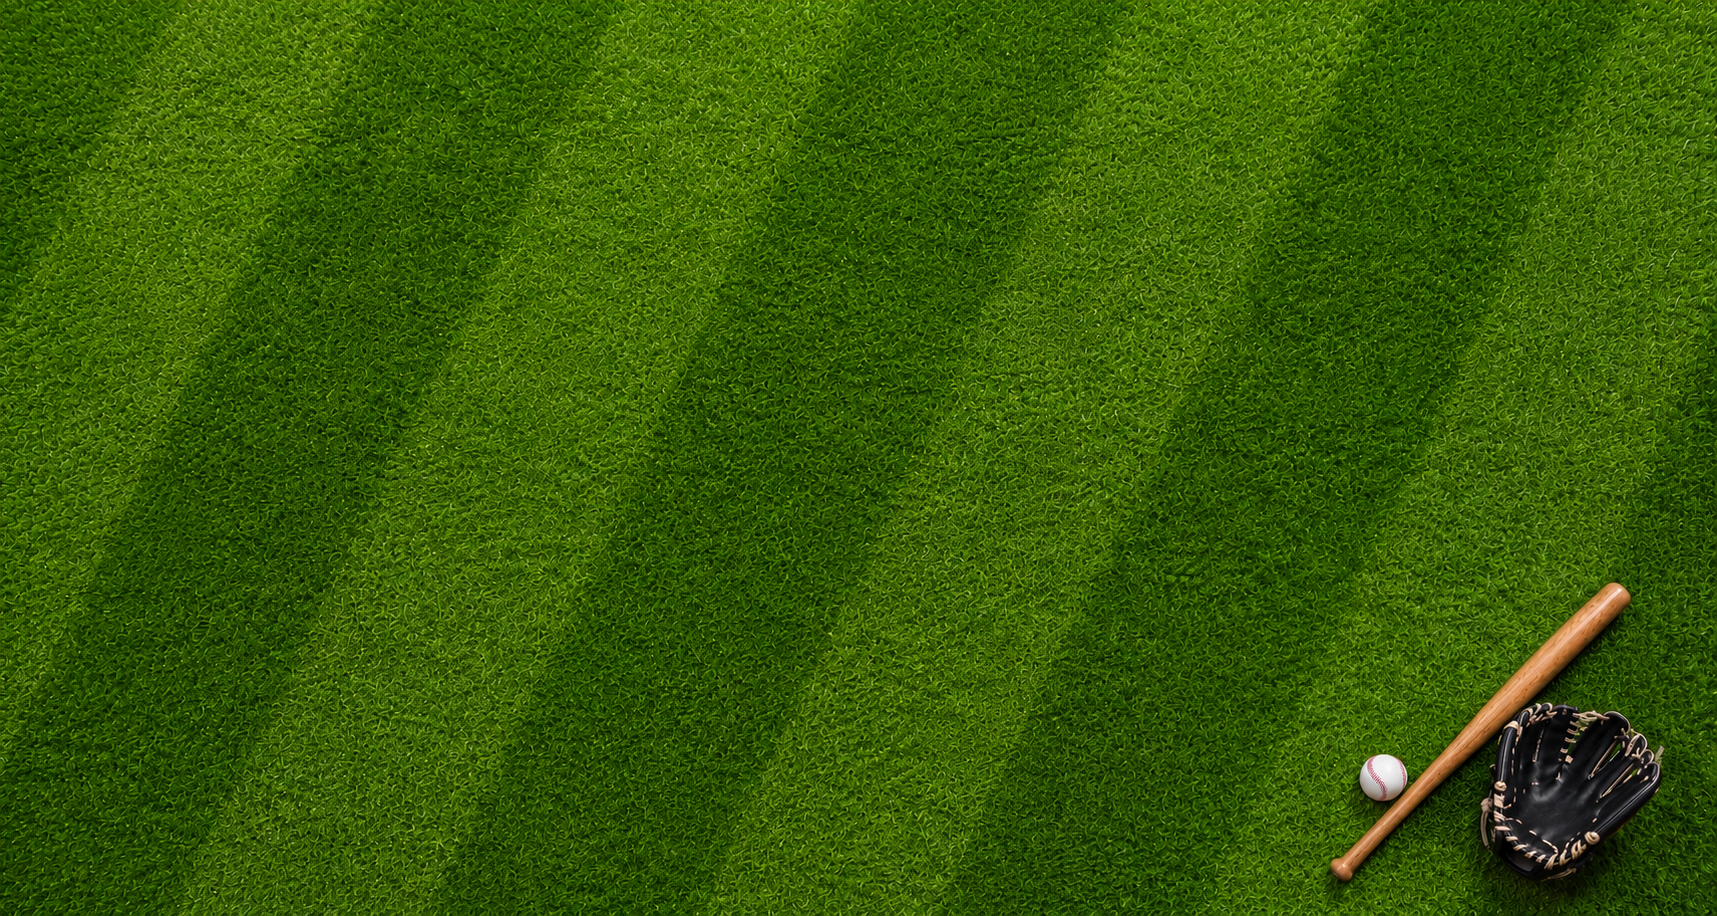
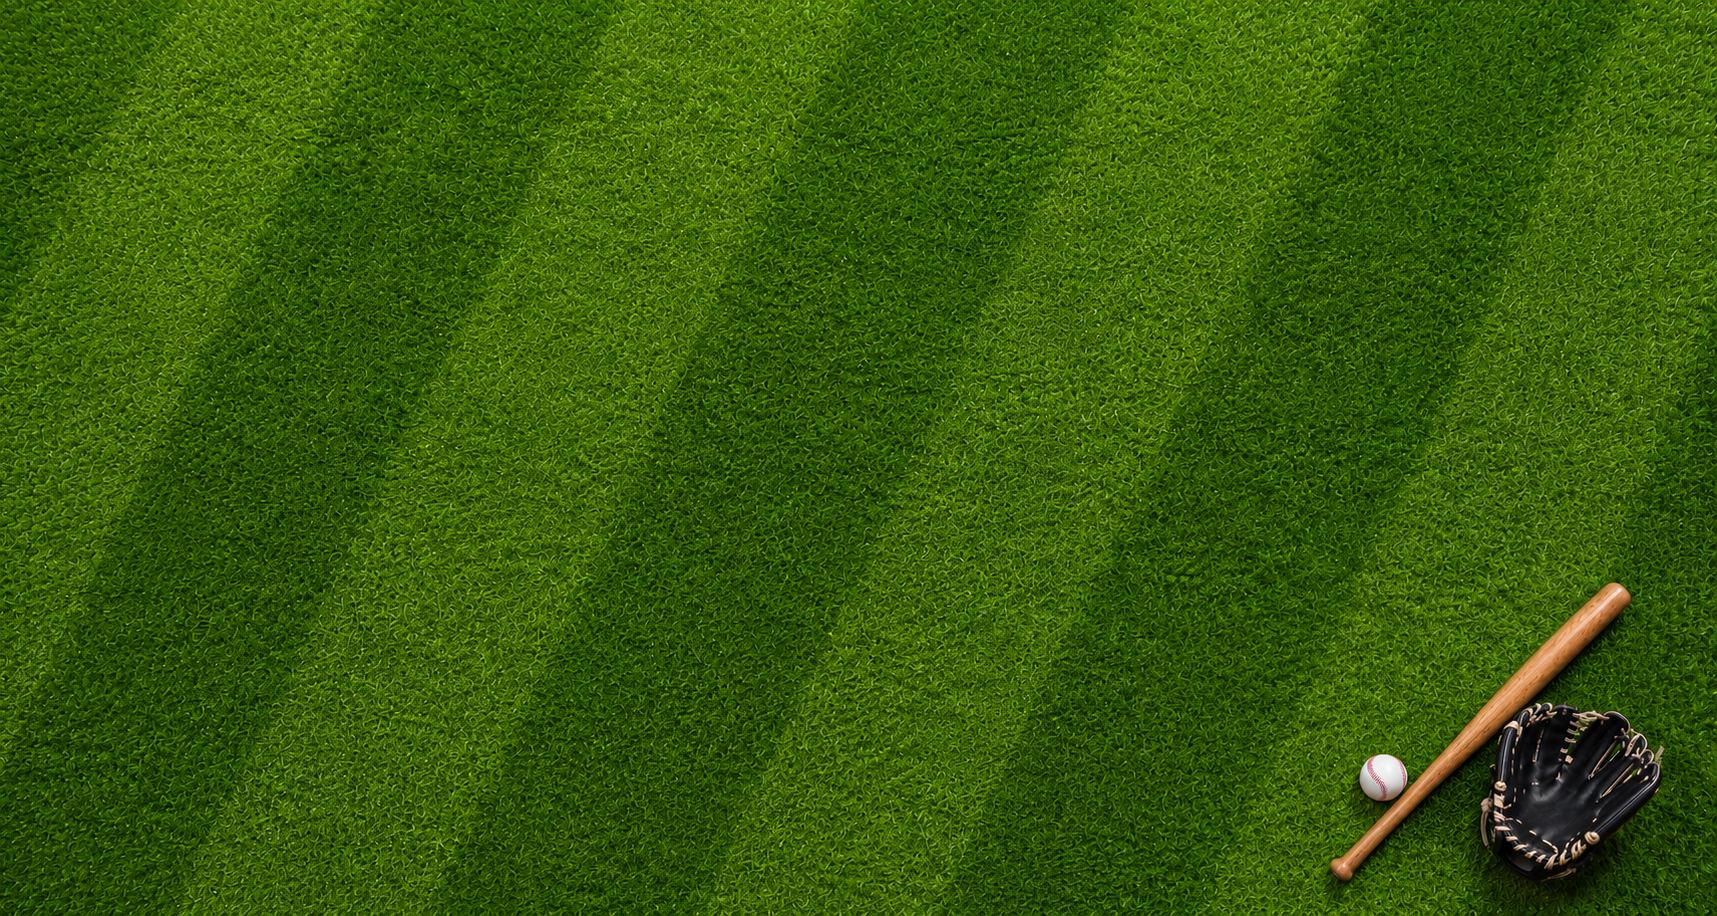
Privacy

diff --git a/privacy.html b/privacy.html
@@ -1,0 +1,155 @@
+<!DOCTYPE html>
+<html lang="nl">
+<head>
+<meta charset="UTF-8">
+<meta name="viewport" content="width=device-width, initial-scale=1.0">
+<title>Privacyverklaring — Slag &amp; Stoot</title>
+<meta name="description" content="Privacyverklaring van Slag &amp; Stoot: welke gegevens we verwerken, waarom, en hoe je je rechten kunt uitoefenen.">
+<link rel="canonical" href="https://www.slagenstoot.nl/privacy.html">
+<meta name="robots" content="index, follow">
+<link rel="icon" type="image/x-icon" href="favicon.ico">
+<link rel="icon" type="image/png" sizes="32x32" href="favicon-32.png">
+<link rel="icon" type="image/png" sizes="16x16" href="favicon-16.png">
+<link rel="apple-touch-icon" sizes="180x180" href="apple-touch-icon.png">
+<meta name="theme-color" content="#12161d">
+<link rel="preconnect" href="https://fonts.googleapis.com">
+<link rel="preconnect" href="https://fonts.gstatic.com" crossorigin>
+<link href="https://fonts.googleapis.com/css2?family=Barlow+Condensed:wght@500;600;700;800&family=Barlow:wght@300;400;500;600&family=Graduate&display=swap" rel="stylesheet">
+<style>
+  :root{
+    --bg:#12161d; --surface:#1e2532;
+    --paper:#f3ead9; --ink:#191e26; --ink-soft:#46506a;
+    --cream:#f6f0e4; --muted:#aeb8c6; --faint:#76808f;
+    --red:#e8462f; --orange:#f26a1e; --orange-2:#ff8a3a; --gold:#eab64f;
+    --line:rgba(246,240,228,.12); --linl:rgba(25,30,38,.12);
+    --max:780px; --r:14px; --ease:cubic-bezier(.2,.7,.2,1); --t:220ms;
+  }
+  *{margin:0;padding:0;box-sizing:border-box;}
+  body{font-family:'Barlow',system-ui,sans-serif;background:var(--paper);color:var(--ink);line-height:1.7;-webkit-font-smoothing:antialiased;}
+  a{color:var(--red);text-decoration:underline;text-decoration-color:rgba(232,70,47,.35);}
+  a:hover{text-decoration-color:var(--red);}
+  a:focus-visible{outline:3px solid var(--orange);outline-offset:2px;border-radius:4px;}
+  h1,h2{font-family:'Barlow Condensed',sans-serif;font-weight:800;text-transform:uppercase;letter-spacing:.01em;color:var(--ink);}
+  .wrap{max-width:var(--max);margin:0 auto;padding:0 24px;}
+
+  header{background:var(--bg);padding:22px 0;}
+  header .wrap{display:flex;align-items:center;justify-content:space-between;}
+  .logo{display:flex;align-items:center;gap:10px;font-family:'Barlow Condensed',sans-serif;font-weight:800;letter-spacing:.04em;color:var(--cream);font-size:1.05rem;}
+  .logo svg{width:30px;height:30px;}
+  .back{font-family:'Barlow Condensed',sans-serif;font-weight:700;letter-spacing:.05em;text-transform:uppercase;font-size:.85rem;color:var(--cream);text-decoration:none;display:inline-flex;align-items:center;gap:6px;opacity:.85;}
+  .back:hover{opacity:1;color:var(--orange-2);}
+
+  main{padding:56px 0 80px;}
+  .eyebrow{display:inline-flex;align-items:center;gap:8px;font-family:'Barlow Condensed',sans-serif;font-weight:700;font-size:.82rem;letter-spacing:.2em;text-transform:uppercase;color:var(--red);margin-bottom:10px;}
+  h1{font-size:clamp(2.1rem,5vw,3rem);margin-bottom:8px;}
+  .updated{color:var(--ink-soft);font-size:.95rem;margin-bottom:38px;}
+  .intro{font-size:1.08rem;color:var(--ink-soft);max-width:60ch;margin-bottom:8px;}
+
+  section{margin-top:38px;padding-top:28px;border-top:1px solid var(--linl);}
+  h2{font-size:1.3rem;margin-bottom:12px;}
+  p{margin-top:12px;color:#3c4456;}
+  ul{margin-top:12px;padding-left:1.2em;color:#3c4456;}
+  li{margin-top:6px;}
+  strong{color:var(--ink);}
+
+  .contact-card{background:var(--bg);color:var(--cream);border-radius:var(--r);padding:28px 26px;margin-top:14px;}
+  .contact-card a{color:var(--orange-2);text-decoration-color:rgba(255,138,58,.4);}
+  .contact-card a:hover{text-decoration-color:var(--orange-2);}
+  .contact-card p{color:var(--muted);}
+
+  footer{background:var(--bg);color:var(--faint);padding:26px 0;font-size:.88rem;}
+  footer .wrap{display:flex;flex-wrap:wrap;gap:10px 20px;align-items:center;justify-content:space-between;}
+  footer a{color:var(--muted);text-decoration:none;}
+  footer a:hover{color:var(--orange-2);}
+</style>
+</head>
+<body>
+
+<header>
+  <div class="wrap">
+    <a class="logo" href="index.html">
+      <svg viewBox="0 0 32 32" fill="none" aria-hidden="true"><circle cx="16" cy="16" r="15" fill="#f6f0e4"/><g stroke="#f26a1e" stroke-width="2.4" stroke-linecap="round"><line x1="9" y1="22" x2="23" y2="10"/><line x1="9" y1="10" x2="23" y2="22"/></g><circle cx="16" cy="16" r="2.8" fill="#12161d"/></svg>
+      SLAG <b>&amp;</b> STOOT
+    </a>
+    <a class="back" href="index.html">&larr; Terug naar de site</a>
+  </div>
+</header>
+
+<main>
+  <div class="wrap">
+    <span class="eyebrow">Privacy</span>
+    <h1>Privacyverklaring</h1>
+    <p class="updated">Laatst bijgewerkt: 22 juni 2026</p>
+    <p class="intro">Slag &amp; Stoot respecteert je privacy. Op deze pagina leggen we uit welke gegevens we verwerken als je contact met ons opneemt of onze website bezoekt, en waarom.</p>
+
+    <section>
+      <h2>Wie zijn wij</h2>
+      <p>Slag &amp; Stoot is de carnaval dj-act van Tim Lammerts van Bueren (dj) en Rens Visser (mc). Je kunt ons bereiken via <a href="mailto:[email redacted]">[email redacted]</a>. Wij zijn verantwoordelijk voor de verwerking van persoonsgegevens zoals beschreven op deze pagina.</p>
+    </section>
+
+    <section>
+      <h2>Welke gegevens verwerken we</h2>
+      <p>We verzamelen alléén gegevens die je zelf aan ons doorgeeft, bijvoorbeeld bij een boekingsaanvraag via e-mail of telefoon. Dat kan gaan om:</p>
+      <ul>
+        <li>Je naam en contactgegevens (e-mailadres, telefoonnummer)</li>
+        <li>Gegevens over je evenement (datum, locatie, type feest, gewenste speelduur)</li>
+        <li>Eventuele overige informatie die je zelf met ons deelt</li>
+      </ul>
+      <p>We hebben geen contactformulier of inschrijfformulier op de website — boekingen verlopen via mail of telefoon.</p>
+    </section>
+
+    <section>
+      <h2>Waarvoor gebruiken we deze gegevens</h2>
+      <p>We gebruiken je gegevens uitsluitend om je boekingsaanvraag te behandelen, met je in contact te blijven over je evenement, en om de afspraak administratief af te handelen. We gebruiken je gegevens niet voor marketing en verkopen of delen ze niet met derden voor commerciële doeleinden.</p>
+    </section>
+
+    <section>
+      <h2>Cookies en ingesloten content (embeds)</h2>
+      <p>Onze website plaatst zelf geen tracking- of advertentiecookies. We tonen wel content van derde partijen op de site, namelijk:</p>
+      <ul>
+        <li><strong>Instagram</strong> — een ingesloten feed van onze Instagram-pagina</li>
+        <li><strong>Spotify</strong> — ingesloten muziekspelers bij onze tracks</li>
+      </ul>
+      <p>Deze partijen kunnen, wanneer hun embed wordt geladen, hun eigen cookies plaatsen en gegevens verzamelen volgens hun eigen privacybeleid. We hebben daar geen invloed op. Bekijk voor meer informatie het privacybeleid van <a href="https://www.facebook.com/privacy/policy/" target="_blank" rel="noopener">Meta/Instagram</a> of <a href="https://www.spotify.com/nl/legal/privacy-policy/" target="_blank" rel="noopener">Spotify</a>.</p>
+    </section>
+
+    <section>
+      <h2>Hoe lang bewaren we gegevens</h2>
+      <p>We bewaren gegevens van een boekingsaanvraag niet langer dan nodig is om je aanvraag af te handelen en de afspraak (en eventuele administratieve/fiscale verplichtingen daaromtrent) correct af te ronden.</p>
+    </section>
+
+    <section>
+      <h2>Beveiliging</h2>
+      <p>We gaan zorgvuldig om met je gegevens en nemen redelijke maatregelen om ze te beschermen tegen verlies of onbevoegde toegang. Onze website is beveiligd met HTTPS.</p>
+    </section>
+
+    <section>
+      <h2>Jouw rechten</h2>
+      <p>Onder de AVG (GDPR) heb je het recht om je gegevens in te zien, te laten corrigeren of te laten verwijderen. Ook kun je bezwaar maken tegen de verwerking van je gegevens. Stuur hiervoor een mail naar <a href="mailto:[email redacted]">[email redacted]</a> — we reageren zo snel mogelijk.</p>
+      <p>Ben je niet tevreden over hoe we met je gegevens omgaan? Dan kun je een klacht indienen bij de <a href="https://www.autoriteitpersoonsgegevens.nl" target="_blank" rel="noopener">Autoriteit Persoonsgegevens</a>.</p>
+    </section>
+
+    <section>
+      <h2>Wijzigingen</h2>
+      <p>We kunnen deze privacyverklaring af en toe aanpassen, bijvoorbeeld als de website verandert. De datum hierboven laat zien wanneer de verklaring voor het laatst is bijgewerkt.</p>
+    </section>
+
+    <section>
+      <h2>Contact</h2>
+      <div class="contact-card">
+        <p style="color:var(--cream);margin-top:0;">Vragen over deze privacyverklaring of over je gegevens?</p>
+        <p>Mail ons gerust op <a href="mailto:[email redacted]">[email redacted]</a></p>
+      </div>
+    </section>
+  </div>
+</main>
+
+<footer>
+  <div class="wrap">
+    <span>&copy; 2026 Slag &amp; Stoot</span>
+    <a href="index.html">Terug naar de homepage</a>
+  </div>
+</footer>
+
+</body>
+</html>

diff --git a/index.html b/index.html
@@ -16,6 +16,7 @@
 <meta property="og:description" content="Carnaval + jouw hits in 1 uur. Eigen platen óók live. #13 in de Spotify Viral 50 NL.">
 <meta property="og:url" content="https://www.slagenstoot.nl/">
 <meta property="og:image" content="https://www.slagenstoot.nl/images/og-image.jpg">
+<meta property="og:image:alt" content="Slag &amp; Stoot — carnaval dj-act in honkbalpak">
 <meta property="og:image:width" content="1200"><meta property="og:image:height" content="1200">
 <meta property="og:locale" content="nl_NL">
 <meta name="twitter:card" content="summary_large_image">
@@ -514,7 +515,7 @@
       </div>
       <div class="reveal d2">
         <div class="about-photo">
-          <img src="about-cream.jpg" alt="Slag en Stoot — Tim en Rens in honkbalpak met knuppel en handschoen">
+          <img src="about-cream.jpg" alt="Slag en Stoot — Tim en Rens in honkbalpak met knuppel en handschoen" width="2000" height="1333" loading="lazy">
           <div class="pn"><span class="nm">SLAG &amp; STOOT</span><span class="no">13</span></div>
         </div>
         <div class="about-vids">
@@ -542,7 +543,7 @@
   </div>
   <div class="wrap">
     <div class="milestone-big reveal">
-      <div class="ms-photo"><img src="viral-50.jpg" alt="Slag en Stoot: #13 in de Spotify Viral 50 Nederland"></div>
+      <div class="ms-photo"><img src="viral-50.jpg" alt="Slag en Stoot: #13 in de Spotify Viral 50 Nederland" width="700" height="938" loading="lazy"></div>
       <div>
         <span class="eyebrow"><svg class="cup" viewBox="0 0 15 18" aria-hidden="true"><path d="M2 3h11l-1.4 13a1.5 1.5 0 0 1-1.5 1.3H4.9a1.5 1.5 0 0 1-1.5-1.3z" fill="#f26a1e"/><rect x="1" y="1.5" width="13" height="2.6" rx="1.3" fill="#ffd0ad"/></svg> Dikke mijlpaal</span>
         <div class="ms-13" aria-hidden="true">#13</div>
@@ -562,10 +563,10 @@
       <p class="sec-intro">Een paar recente clips — beweeg erover om mee te kijken.</p>
     </div>
     <div class="ig-reels">
-      <div class="reel reveal"><span class="rt">Story</span><video src="recap-2.mp4" autoplay muted loop playsinline preload="auto"></video></div>
-      <div class="reel reveal"><span class="rt">Recap</span><video src="recap-3.mp4" autoplay muted loop playsinline preload="auto"></video></div>
-      <div class="reel reveal"><span class="rt">Live</span><video src="recap-4.mp4" autoplay muted loop playsinline preload="auto"></video></div>
-      <div class="reel reveal"><span class="rt">Snippet</span><video src="recap-5.mp4" autoplay muted loop playsinline preload="auto"></video></div>
+      <div class="reel reveal"><span class="rt">Story</span><video class="lazy-vid" data-src="recap-2.mp4" muted loop playsinline preload="none"></video></div>
+      <div class="reel reveal"><span class="rt">Recap</span><video class="lazy-vid" data-src="recap-3.mp4" muted loop playsinline preload="none"></video></div>
+      <div class="reel reveal"><span class="rt">Live</span><video class="lazy-vid" data-src="recap-4.mp4" muted loop playsinline preload="none"></video></div>
+      <div class="reel reveal"><span class="rt">Snippet</span><video class="lazy-vid" data-src="recap-5.mp4" muted loop playsinline preload="none"></video></div>
     </div>
     <div class="yt-recaps reveal">
       <a href="https://www.youtube.com/@slagenstoot" target="_blank" rel="noopener"><svg viewBox="0 0 24 24" fill="currentColor" aria-hidden="true"><path d="M23.5 6.2a3 3 0 0 0-2.1-2.1C19.5 3.5 12 3.5 12 3.5s-7.5 0-9.4.6A3 3 0 0 0 .5 6.2 31 31 0 0 0 0 12a31 31 0 0 0 .5 5.8 3 3 0 0 0 2.1 2.1c1.9.6 9.4.6 9.4.6s7.5 0 9.4-.6a3 3 0 0 0 2.1-2.1A31 31 0 0 0 24 12a31 31 0 0 0-.5-5.8zM9.5 15.5v-7l6.3 3.5z"/></svg> Bekijk onze recaps op YouTube</a>
@@ -595,7 +596,7 @@
     <div class="music-grid">
       <div class="track-feat reveal">
         <div class="tf-media">
-          <video src="promo-zet-die-tap.mp4" autoplay muted loop playsinline preload="auto" poster="hero-orange.jpg"></video>
+          <video class="lazy-vid" data-src="promo-zet-die-tap.mp4" muted loop playsinline preload="none" poster="hero-orange.jpg"></video>
           <span class="badge">Hit 2026 · #13 Viral 50</span>
         </div>
         <div class="tf-body">
@@ -764,7 +765,7 @@
         <div class="foot-col"><h4>Roster</h4><a href="tel:[phone redacted]">DJ · [phone redacted] 66</a><a href="tel:[phone redacted]">MC · [phone redacted] 92</a></div>
       </nav>
     </div>
-    <div class="foot-bottom">&copy; 2026 Slag &amp; Stoot · Carnaval DJ-act · Alle rechten voorbehouden.</div>
+    <div class="foot-bottom">&copy; 2026 Slag &amp; Stoot · Carnaval DJ-act · Alle rechten voorbehouden. · <a href="privacy.html" style="text-decoration:underline">Privacyverklaring</a></div>
   </div>
 </footer>
 
@@ -812,6 +813,24 @@
 
   /* Keep videos autoplaying */
   document.querySelectorAll('video').forEach(v=>{const tryplay=()=>v.play().catch(()=>{});v.addEventListener('loadeddata',tryplay);document.addEventListener('visibilitychange',()=>{if(!document.hidden)tryplay();});});
+
+  /* Lazy-load below-the-fold background video's: pas downloaden + afspelen zodra ze in beeld scrollen */
+  (function(){
+    const vids=document.querySelectorAll('video.lazy-vid');
+    if(!vids.length)return;
+    const io=new IntersectionObserver((es)=>{
+      es.forEach(x=>{
+        const v=x.target;
+        if(x.isIntersecting){
+          if(!v.src && v.dataset.src){v.src=v.dataset.src;v.load();}
+          v.play().catch(()=>{});
+        }else{
+          v.pause();
+        }
+      });
+    },{threshold:.15,rootMargin:'200px 0px'});
+    vids.forEach(v=>io.observe(v));
+  })();
 
   /* Carnaval Drift — generative hero particle layer */
   (function(){